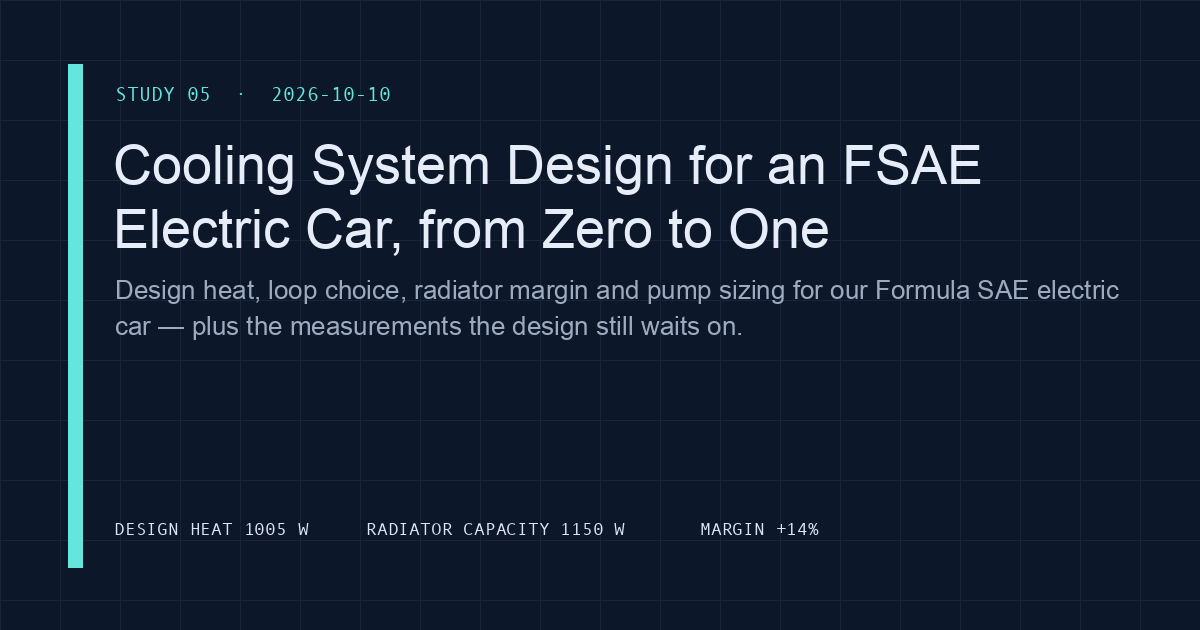
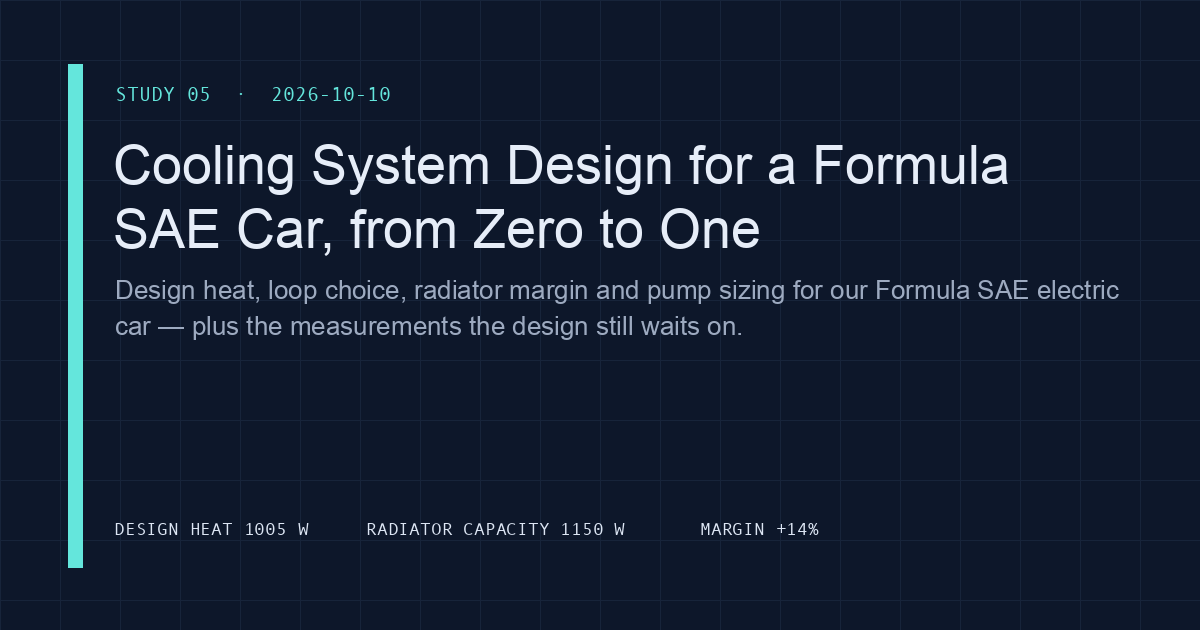
content(fsae-cooling): use the full Formula SAE name in the title

Changed region(s): [[0.0925, 0.3317, 0.7092, 0.3921], [0.6475, 0.2111, 0.8633, 0.3016]]

diff --git a/site/src/content/projects/fsae-cooling.md b/site/src/content/projects/fsae-cooling.md
@@ -1,5 +1,5 @@
 ---
-title: 'Cooling System Design for an FSAE Electric Car, from Zero to One'
+title: 'Cooling System Design for a Formula SAE Car, from Zero to One'
 year: 2026
 date: '2026-10-06'
 updated: '2026-10-10'
